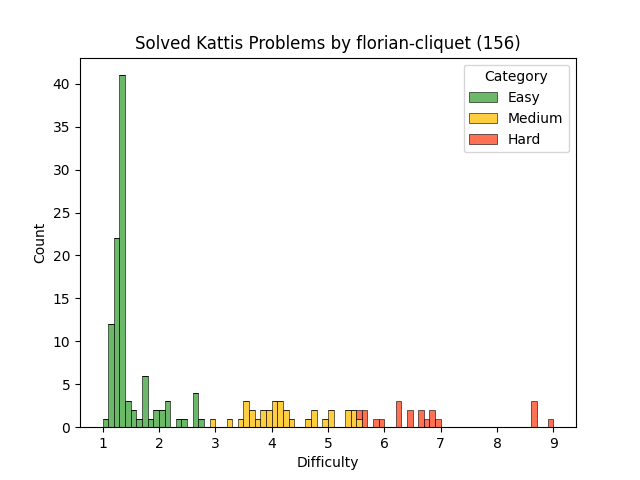
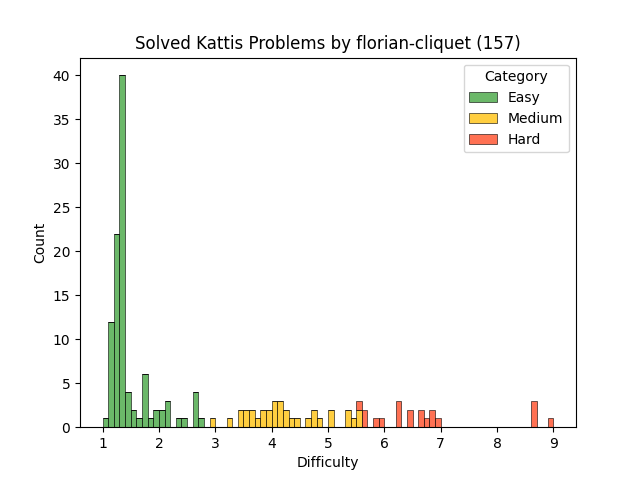
auto update

diff --git a/src/moviecollection.cpp b/src/moviecollection.cpp
@@ -1,0 +1,60 @@
+#include <bits/stdc++.h>
+using namespace std;
+
+#define FAST_IO ios_base::sync_with_stdio(false); cin.tie(nullptr); cout.tie(nullptr);
+#define nl "\n"
+
+int N, M;
+int arr[200100];
+int pos[100100];
+
+void update(int id, int val) {
+    while (id <= N + M) {
+        arr[id] += val;
+        id += (id & -id);
+    }
+}
+
+int sum(int id) {
+    int res = 0;
+    while (id) {
+        res += arr[id];
+        id -= (id & -id);
+    }
+    return res;
+}
+
+int main() {
+    FAST_IO;
+    int t;
+    cin >> t;
+
+    while (t--) {
+        cin >> N >> M;
+        memset(arr, 0, sizeof(arr));
+
+        // Initialize positions in Fenwick Tree
+        for (int i = 1; i <= N; i++) {
+            update(N - i + 1, 1); // Mark positions in Fenwick Tree
+            pos[i] = N - i + 1;   // Corrected initialization of pos[i]
+        }
+
+        for (int i = 1; i <= M; i++) {
+            int x;
+            cin >> x;
+
+            if (i > 1) cout << " ";
+            // Count elements above x
+            cout << N - sum(pos[x]);
+
+            // Remove x from current position
+            update(pos[x], -1);
+
+            // Move x to the top of the stack
+            pos[x] = N + i;
+            update(pos[x], 1); // Mark new position
+        }
+        cout << "\n";
+    }
+    return 0;
+}

diff --git a/README.md b/README.md
@@ -1,6 +1,6 @@
 # Kattis Solutions
 
-## Total problems solved: 156
+## Total problems solved: 157
 
 ## Repartition chart
 ![Repartition chart](images/problem_difficulty_distribution.png)
@@ -57,7 +57,7 @@ Note that the tables below are auto-generated using a script.
 |[Factstone Benchmark](https://open.kattis.com/problems/factstone)|[![cpp](images/cpp.png)](src/factstone.cpp)|4.0|Medium|[Problem](https://open.kattis.com/problems/factstone)|
 |[Färgrobot](https://open.kattis.com/problems/fargrobot)|[![cpp](images/cpp.png)](src/fargrobot.cpp)|1.7|Easy|[Problem](https://open.kattis.com/problems/fargrobot)|
 |[Fibs og Dibs](https://open.kattis.com/problems/fibsogdibs)|[![cpp](images/cpp.png)](src/fibsogdibs.cpp)|6.4|Hard|[Problem](https://open.kattis.com/problems/fibsogdibs)|
-|[Framtíðar FIFA](https://open.kattis.com/problems/fifa)|[![cpp](images/cpp.png)](src/fifa.cpp)|1.2|Easy|[Problem](https://open.kattis.com/problems/fifa)|
+|[Framtíðar FIFA](https://open.kattis.com/problems/fifa)|[![cpp](images/cpp.png)](src/fifa.cpp)|1.1|Easy|[Problem](https://open.kattis.com/problems/fifa)|
 |[Finding An A](https://open.kattis.com/problems/findingana)|[![cpp](images/cpp.png)](src/findingana.cpp)|1.2|Easy|[Problem](https://open.kattis.com/problems/findingana)|
 |[Flatbökuveisla](https://open.kattis.com/problems/flatbokuveisla)|[![cpp](images/cpp.png)](src/flatbokuveisla.cpp)|1.1|Easy|[Problem](https://open.kattis.com/problems/flatbokuveisla)|
 |[Framvindustika](https://open.kattis.com/problems/framvindustika)|[![cpp](images/cpp.png)](src/framvindustika.cpp)|3.4|Medium|[Problem](https://open.kattis.com/problems/framvindustika)|
@@ -100,6 +100,7 @@ Note that the tables below are auto-generated using a script.
 |[Metronome](https://open.kattis.com/problems/metronome)|[![cpp](images/cpp.png)](src/metronome.cpp)|1.1|Easy|[Problem](https://open.kattis.com/problems/metronome)|
 |[Millifærsla](https://open.kattis.com/problems/millifaersla)|[![cpp](images/cpp.png)](src/millifaersla.cpp)|1.2|Easy|[Problem](https://open.kattis.com/problems/millifaersla)|
 |[Missing Gnomes](https://open.kattis.com/problems/missinggnomes)|[![cpp](images/cpp.png)](src/missinggnomes.cpp)|3.6|Medium|[Problem](https://open.kattis.com/problems/missinggnomes)|
+|[Movie Collection](https://open.kattis.com/problems/moviecollection)|[![cpp](images/cpp.png)](src/moviecollection.cpp)|4.4|Medium|[Problem](https://open.kattis.com/problems/moviecollection)|
 |[Mravojed](https://open.kattis.com/problems/mravojed)|[![cpp](images/cpp.png)](src/mravojed.cpp)|6.6|Hard|[Problem](https://open.kattis.com/problems/mravojed)|
 |[Multiplication Table](https://open.kattis.com/problems/multtable)|[![cpp](images/cpp.png)](src/multtable.cpp)|3.6|Medium|[Problem](https://open.kattis.com/problems/multtable)|
 |[Nasty Hacks](https://open.kattis.com/problems/nastyhacks)|[![cpp](images/cpp.png)](src/nastyhacks.cpp)|1.3|Easy|[Problem](https://open.kattis.com/problems/nastyhacks)|
@@ -113,10 +114,10 @@ Note that the tables below are auto-generated using a script.
 |[Óvissa](https://open.kattis.com/problems/ovissa)|[![cpp](images/cpp.png)](src/ovissa.cpp)|1.2|Easy|[Problem](https://open.kattis.com/problems/ovissa)|
 |[Patuljci](https://open.kattis.com/problems/patuljci)|[![cpp](images/cpp.png)](src/patuljci.cpp)|1.7|Easy|[Problem](https://open.kattis.com/problems/patuljci)|
 |[Periodic Strings](https://open.kattis.com/problems/periodicstrings)|[![cpp](images/cpp.png)](src/periodicstrings.cpp)|2.3|Easy|[Problem](https://open.kattis.com/problems/periodicstrings)|
-|[Piano Lessons](https://open.kattis.com/problems/pianolessons)|[![cpp](images/cpp.png)](src/pianolessons.cpp)|3.5|Medium|[Problem](https://open.kattis.com/problems/pianolessons)|
+|[Piano Lessons](https://open.kattis.com/problems/pianolessons)|[![cpp](images/cpp.png)](src/pianolessons.cpp)|3.4|Medium|[Problem](https://open.kattis.com/problems/pianolessons)|
 |[Pizza Crust](https://open.kattis.com/problems/pizza2)|[![cpp](images/cpp.png)](src/pizza2.cpp)|1.7|Easy|[Problem](https://open.kattis.com/problems/pizza2)|
 |[Pizzastrengur](https://open.kattis.com/problems/pizzastrengur)|[![c](images/c.png)](src/pizzastrengur.c) [![cpp](images/cpp.png)](src/pizzastrengur.cpp)|2.9|Easy|[Problem](https://open.kattis.com/problems/pizzastrengur)|
-|[Pot](https://open.kattis.com/problems/pot)|[![cpp](images/cpp.png)](src/pot.cpp)|1.3|Easy|[Problem](https://open.kattis.com/problems/pot)|
+|[Pot](https://open.kattis.com/problems/pot)|[![cpp](images/cpp.png)](src/pot.cpp)|1.4|Easy|[Problem](https://open.kattis.com/problems/pot)|
 |[Prva](https://open.kattis.com/problems/prva)|[![cpp](images/cpp.png)](src/prva.cpp)|1.7|Easy|[Problem](https://open.kattis.com/problems/prva)|
 |[Púsluspil](https://open.kattis.com/problems/pusluspil)|[![cpp](images/cpp.png)](src/pusluspil.cpp)|2.1|Easy|[Problem](https://open.kattis.com/problems/pusluspil)|
 |[Quality-Adjusted Life-Year](https://open.kattis.com/problems/qaly)|[![cpp](images/cpp.png)](src/qaly.cpp)|1.3|Easy|[Problem](https://open.kattis.com/problems/qaly)|
@@ -126,7 +127,7 @@ Note that the tables below are auto-generated using a script.
 |[The Rectangles Are Surrounding Us!](https://open.kattis.com/problems/rectanglesurrounding)|[![cpp](images/cpp.png)](src/rectanglesurrounding.cpp)|2.6|Easy|[Problem](https://open.kattis.com/problems/rectanglesurrounding)|
 |[Reduplication](https://open.kattis.com/problems/reduplikation)|[![cpp](images/cpp.png)](src/reduplikation.cpp)|1.2|Easy|[Problem](https://open.kattis.com/problems/reduplikation)|
 |[Rúnnfræði](https://open.kattis.com/problems/runnfraedi)|[![cpp](images/cpp.png)](src/runnfraedi.cpp)|8.6|Hard|[Problem](https://open.kattis.com/problems/runnfraedi)|
-|[Saint John Festival](https://open.kattis.com/problems/saintjohn)|[![cpp](images/cpp.png)](src/saintjohn.cpp)|4.9|Medium|[Problem](https://open.kattis.com/problems/saintjohn)|
+|[Saint John Festival](https://open.kattis.com/problems/saintjohn)|[![cpp](images/cpp.png)](src/saintjohn.cpp)|4.8|Medium|[Problem](https://open.kattis.com/problems/saintjohn)|
 |[Sammaeining](https://open.kattis.com/problems/sammaeining)|[![cpp](images/cpp.png)](src/sammaeining.cpp)|5.3|Medium|[Problem](https://open.kattis.com/problems/sammaeining)|
 |[Line Segment Distance](https://open.kattis.com/problems/segmentdistance)|[![cpp](images/cpp.png)](src/segmentdistance.cpp)|4.2|Medium|[Problem](https://open.kattis.com/problems/segmentdistance)|
 |[Shandy](https://open.kattis.com/problems/shandy)|[![cpp](images/cpp.png)](src/shandy.cpp)|1.4|Easy|[Problem](https://open.kattis.com/problems/shandy)|
@@ -138,9 +139,9 @@ Note that the tables below are auto-generated using a script.
 |[Spritt](https://open.kattis.com/problems/spritt)|[![cpp](images/cpp.png)](src/spritt.cpp)|1.3|Easy|[Problem](https://open.kattis.com/problems/spritt)|
 |[Stamp Combinations](https://open.kattis.com/problems/stampcombinations)|[![cpp](images/cpp.png)](src/stampcombinations.cpp)|5.6|Medium|[Problem](https://open.kattis.com/problems/stampcombinations)|
 |[Stikl](https://open.kattis.com/problems/stikl)|[![c](images/c.png)](src/stikl.c)|5.5|Medium|[Problem](https://open.kattis.com/problems/stikl)|
-|[Stórafmæli](https://open.kattis.com/problems/storafmaeli)|[![cpp](images/cpp.png)](src/storafmaeli.cpp)|1.1|Easy|[Problem](https://open.kattis.com/problems/storafmaeli)|
+|[Stórafmæli](https://open.kattis.com/problems/storafmaeli)|[![cpp](images/cpp.png)](src/storafmaeli.cpp)|1.2|Easy|[Problem](https://open.kattis.com/problems/storafmaeli)|
 |[Studentsko](https://open.kattis.com/problems/studentsko)|[![cpp](images/cpp.png)](src/studentsko.cpp)|3.8|Medium|[Problem](https://open.kattis.com/problems/studentsko)|
-|[Sunshine](https://open.kattis.com/problems/sunshine)|[![c](images/c.png)](src/sunshine.c) [![cpp](images/cpp.png)](src/sunshine.cpp)|5.4|Medium|[Problem](https://open.kattis.com/problems/sunshine)|
+|[Sunshine](https://open.kattis.com/problems/sunshine)|[![c](images/c.png)](src/sunshine.c) [![cpp](images/cpp.png)](src/sunshine.cpp)|5.5|Medium|[Problem](https://open.kattis.com/problems/sunshine)|
 |[Supercomputer](https://open.kattis.com/problems/supercomputer)|[![cpp](images/cpp.png)](src/supercomputer.cpp)|2.7|Easy|[Problem](https://open.kattis.com/problems/supercomputer)|
 |[Symmetric Order](https://open.kattis.com/problems/symmetricorder)|[![cpp](images/cpp.png)](src/symmetricorder.cpp)|1.7|Easy|[Problem](https://open.kattis.com/problems/symmetricorder)|
 |[Takkar](https://open.kattis.com/problems/takkar)|[![cpp](images/cpp.png)](src/takkar.cpp)|1.2|Easy|[Problem](https://open.kattis.com/problems/takkar)|
